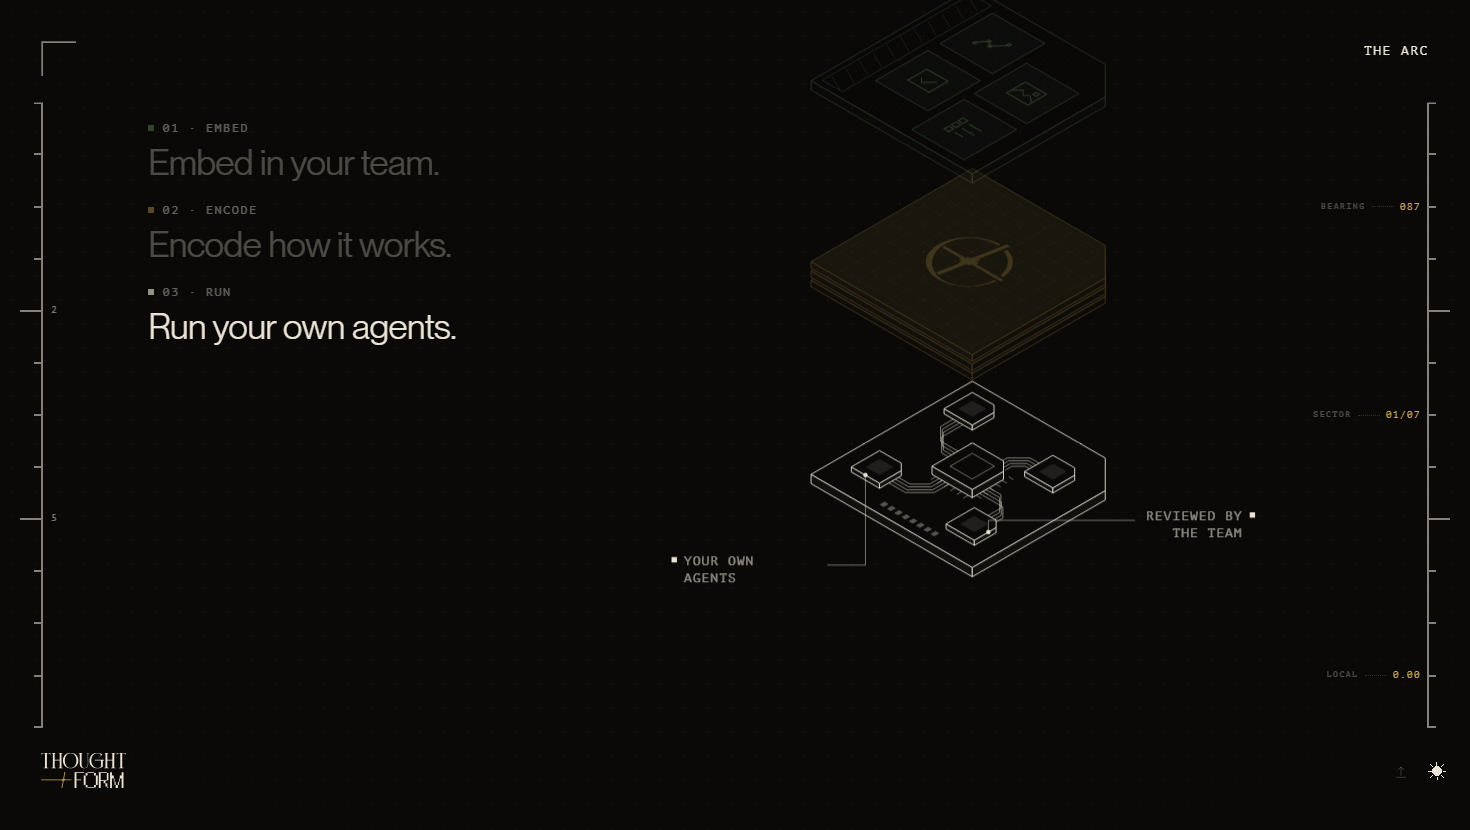
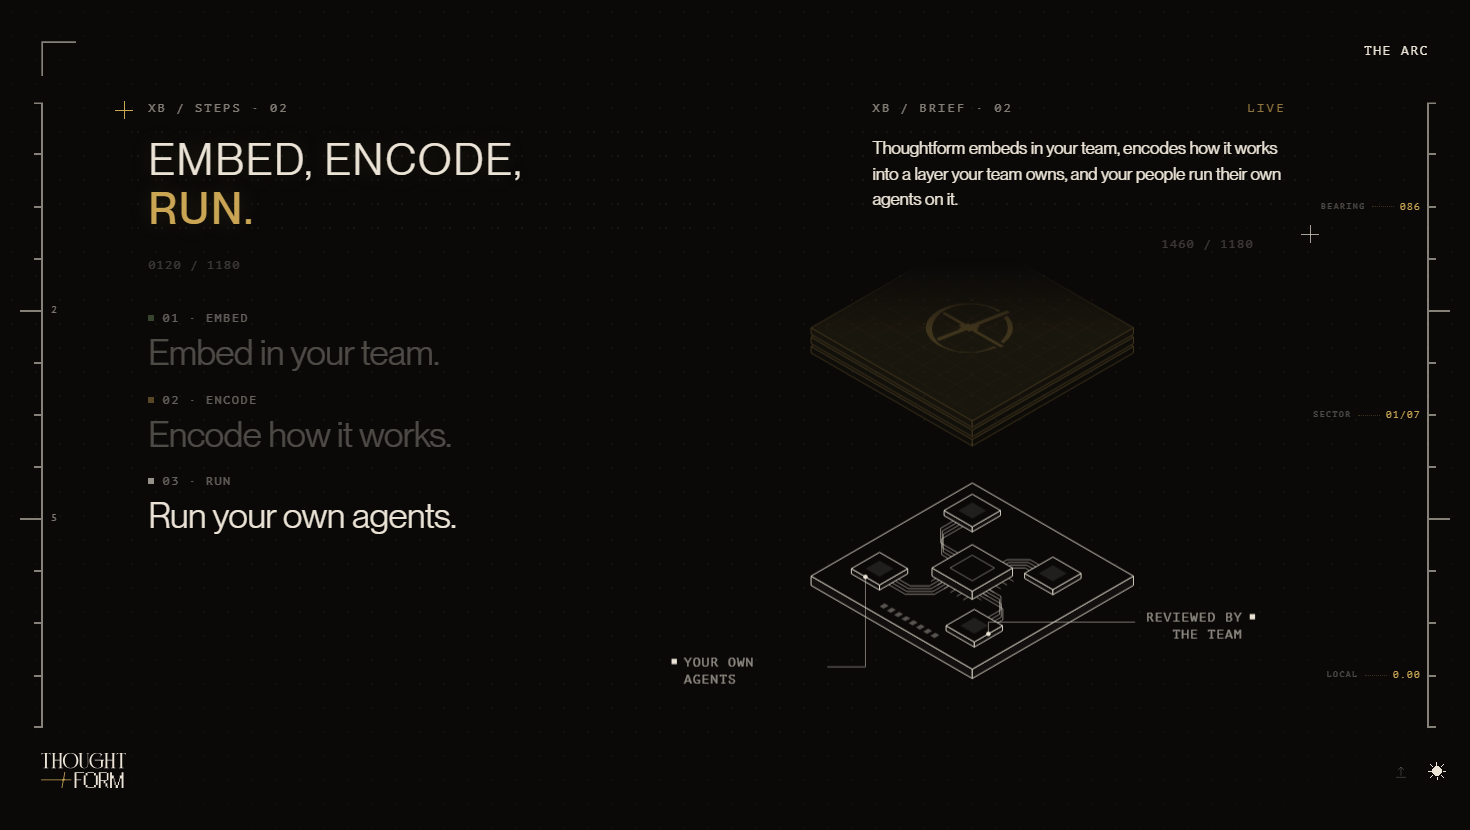
fix(test): the steps hold their head still, read the scroll continuously, lose the notches
The head and the step list sit inside the pinned stage and stay put
through the section; the plates follow every scroll tick (travel linear
to the last plate, then close), with no plateau to scroll through; the
plates' notches are gone; a plate passes under the held head on a soft
fade and leaves by the frame's bottom edge.

diff --git a/components/xb-proposal/embed/EmbedStack.tsx b/components/xb-proposal/embed/EmbedStack.tsx
@@ -42,7 +42,9 @@ const OX = 350;
 const OY = 70;
 const iso = makeIso(U, OX, OY);
 const S = 8;
-const NOTCH = 1.4;
+/* No notch on these plates (owner, 2026-10-12: the notched corners read as
+   "cutting off"). `NotchedBox` keeps the parameter, at 0. */
+const NOTCH = 0;
 const FACE_MID = OY + S * 0.5 * U;
 /* The plates' spacing: apart while a step is read (room enough that the
    next plate rises in from below the frame, owner: "it should never be cut
@@ -196,7 +198,7 @@ function LayerPlate() {
   const k = 3.2 / mk.h;
   return (
     <g>
-      <LayerSlab iso={iso} g={g} notch={NOTCH} />
+      <LayerSlab iso={iso} g={g} />
       <g transform={iso.plane(S / 2 - (mk.w * k) / 2, S / 2 - 1.6, top, k)}>
         {BRANDMARK_PATHS.map((d, i) => (
           <path key={i} d={d} fill={GOLD} fillOpacity={0.9} />
@@ -304,7 +306,7 @@ function AgentPlate() {
           />
         );
       })}
-      <NotchedBox b={CHIP} c={0.45} stroke={DAWN} side="var(--xb-ground-2)" />
+      <NotchedBox b={CHIP} stroke={DAWN} side="var(--xb-ground-2)" />
       <polygon
         points={quad(3.45, 3.45, 4.55, 4.55, CHIP.z1)}
         fill="none"
@@ -313,7 +315,7 @@ function AgentPlate() {
       />
       {MODULES.map((m, i) => (
         <g key={i}>
-          <NotchedBox b={m} c={0.32} stroke={DAWN} side="var(--xb-ground-2)" />
+          <NotchedBox b={m} stroke={DAWN} side="var(--xb-ground-2)" />
           <polygon
             points={quad(m.x0 + 0.35, m.y0 + 0.35, m.x1 - 0.35, m.y1 - 0.35, m.z1)}
             fill={tint("var(--xb-text)", 0.1)}
@@ -408,15 +410,22 @@ function Callouts({ i }: { i: number }) {
 
 const PLATES = [TeamPlate, LayerPlate, AgentPlate];
 const seg = (t: number, a: number, b: number) => clamp01((t - a) / (b - a));
-/* Where each step reads on the runway (its anchor). */
-const STEP_AT = [0.12, 0.47, 0.92];
+/* Where each step reads on the runway (its anchor): a plate is centred at
+   a third of the travel each, the stack closed at the end. */
+const TRAVEL_END = 0.7;
+const STEP_AT = [0, TRAVEL_END / 2, 0.97];
 
+/** The scroll's reading, CONTINUOUS (owner: "the diagrams … should scroll
+    into view smoothly … it locks at different scroll positions"): every
+    scroll tick moves the plates, with no plateau a reader has to scroll
+    through. The plates travel linearly to the last one, then close. */
 function read(p: number): { step: 0 | 1 | 2; gap: number; centre: number; stacked: boolean } {
-  const step = p < 0.32 ? 0 : p < 0.66 ? 1 : 2;
-  const close = ease(seg(p, 0.7, 0.88));
+  const travel = 2 * seg(p, 0, TRAVEL_END);
+  const close = ease(seg(p, TRAVEL_END - 0.04, 1));
   const gap = GAP.open - (GAP.open - GAP.closed) * close;
-  /* the plate in view sits centred; once closed, the stack's middle does */
-  const centre = ease(seg(p, 0.24, 0.38)) + ease(seg(p, 0.56, 0.7)) - close;
+  /* the plate in view sits centred; as they close, the stack's middle does */
+  const centre = travel + (1 - travel) * close;
+  const step = travel < 0.5 ? 0 : travel < 1.5 ? 1 : 2;
   return { step, gap, centre, stacked: close > 0.98 };
 }
 
@@ -477,7 +486,6 @@ export function EmbedStack() {
 
   return (
     <div className="es" data-plain={plain ? "" : undefined}>
-      <Masthead copy={HEAD} />
       <div className="es-runway" ref={runway}>
         {/* one anchor per step on the runway, for the flow's labels */}
         {PLUG_STEPS.map((st, i) => (
@@ -490,54 +498,63 @@ export function EmbedStack() {
           />
         ))}
         <div className="es-pin">
-          <div className="es-left">
-            <ol className="es-lines">
-              {PLUG_STEPS.map((st, i) => (
-                <li key={st.id} data-on={plain || step === i ? "" : undefined} data-tone={st.tone}>
-                  <a href={`#${stepAnchor(st.id)}`}>
-                    <span className="es-n">
-                      <i aria-hidden />
-                      {st.n} · {st.step}
-                    </span>
-                    <span className="es-line">{LINE[st.id]}</span>
-                    {plain ? <span className="es-plaincap">{BODY[st.id]}</span> : null}
-                  </a>
-                </li>
-              ))}
-            </ol>
-          </div>
+          {/* the head and the steps hold still through the section (owner:
+              "once you enter … the title should remain static") */}
+          <Masthead copy={HEAD} />
+          <div className="es-body">
+            <div className="es-left">
+              <ol className="es-lines">
+                {PLUG_STEPS.map((st, i) => (
+                  <li
+                    key={st.id}
+                    data-on={plain || step === i ? "" : undefined}
+                    data-tone={st.tone}
+                  >
+                    <a href={`#${stepAnchor(st.id)}`}>
+                      <span className="es-n">
+                        <i aria-hidden />
+                        {st.n} · {st.step}
+                      </span>
+                      <span className="es-line">{LINE[st.id]}</span>
+                      {plain ? <span className="es-plaincap">{BODY[st.id]}</span> : null}
+                    </a>
+                  </li>
+                ))}
+              </ol>
+            </div>
 
-          <div className="es-right">
-            <div className="es-stage">
-              <svg
-                ref={svg}
-                viewBox={`0 0 ${VB_W} ${VB_H}`}
-                className="es-svg"
-                role="img"
-                aria-label="Three plates closing into one stack: your team, the layer, your agents"
-              >
-                {/* painted bottom plate first: the upper plate sits in front */}
-                {PLATES.map((Plate, i) => ({ Plate, i }))
-                  .reverse()
-                  .map(({ Plate, i }) => (
-                    <g
-                      key={i}
-                      ref={(g) => {
-                        plates.current[i] = g;
-                      }}
-                    >
-                      <g className="es-plate" data-on={lit(i) ? "" : undefined}>
-                        <Plate />
-                      </g>
+            <div className="es-right">
+              <div className="es-stage">
+                <svg
+                  ref={svg}
+                  viewBox={`0 0 ${VB_W} ${VB_H}`}
+                  className="es-svg"
+                  role="img"
+                  aria-label="Three plates closing into one stack: your team, the layer, your agents"
+                >
+                  {/* painted bottom plate first: the upper plate sits in front */}
+                  {PLATES.map((Plate, i) => ({ Plate, i }))
+                    .reverse()
+                    .map(({ Plate, i }) => (
                       <g
-                        className="es-call"
-                        data-on={!plain && step === i && (i === 2 || !stacked) ? "" : undefined}
+                        key={i}
+                        ref={(g) => {
+                          plates.current[i] = g;
+                        }}
                       >
-                        <Callouts i={i} />
+                        <g className="es-plate" data-on={lit(i) ? "" : undefined}>
+                          <Plate />
+                        </g>
+                        <g
+                          className="es-call"
+                          data-on={!plain && step === i && (i === 2 || !stacked) ? "" : undefined}
+                        >
+                          <Callouts i={i} />
+                        </g>
                       </g>
-                    </g>
-                  ))}
-              </svg>
+                    ))}
+                </svg>
+              </div>
             </div>
           </div>
         </div>

diff --git a/components/xb-proposal/embed/embed.css b/components/xb-proposal/embed/embed.css
@@ -4,33 +4,38 @@
 .es {
   --es-green: #7a9e6a;
   position: relative;
-  padding: var(--hud-rail-y-start, 96px) calc(var(--band-margin, 96px) + 36px) 0
-    var(--band-margin, 96px);
+  padding: 0 calc(var(--band-margin, 96px) + 36px) 0 var(--band-margin, 96px);
 }
 
 /* the runway the stage is pinned across; its anchors place the steps */
 .es-runway {
   position: relative;
-  height: 300svh;
-  margin-top: 0;
+  height: 260svh;
 }
 .es-anchor {
   position: absolute;
   left: 0;
-  top: calc(var(--at) * 200svh);
+  top: calc(var(--at) * 160svh);
   width: 1px;
   height: 1px;
   pointer-events: none;
 }
+/* the pinned stage: the head, then the steps beside the plates; the plates'
+   column runs to the frame's bottom edge, so a plate leaves by that edge */
 .es-pin {
   position: sticky;
   top: 0;
   height: 100svh;
   display: grid;
+  grid-template-rows: auto minmax(0, 1fr);
+  padding-top: var(--hud-rail-y-start, 96px);
+  box-sizing: border-box;
+}
+.es-body {
+  display: grid;
   grid-template-columns: minmax(0, 0.85fr) minmax(0, 1.15fr);
   gap: 48px;
-  padding: var(--hud-rail-y-start, 96px) 0 var(--hud-rail-y-end, 72px);
-  box-sizing: border-box;
+  min-height: 0;
 }
 
 /* ---- the steps, all three at once ---- */
@@ -39,7 +44,7 @@
    run can move upwards") */
 .es-left {
   align-self: start;
-  padding-top: clamp(8px, 2svh, 24px);
+  padding-top: clamp(36px, 6svh, 64px);
 }
 .es-lines {
   display: grid;
@@ -117,11 +122,14 @@
   display: grid;
   min-height: 0;
 }
-/* never clipped: a plate leaves only by the frame's own edge */
+/* A plate leaves by the frame's bottom edge; at the top it passes under
+   the held head on a soft fade, never a hard cut. */
 .es-stage {
   position: relative;
-  overflow: visible;
+  height: 100%;
   min-height: 0;
+  -webkit-mask-image: linear-gradient(to bottom, transparent 0, #000 72px);
+  mask-image: linear-gradient(to bottom, transparent 0, #000 72px);
 }
 .es-svg {
   position: absolute;
